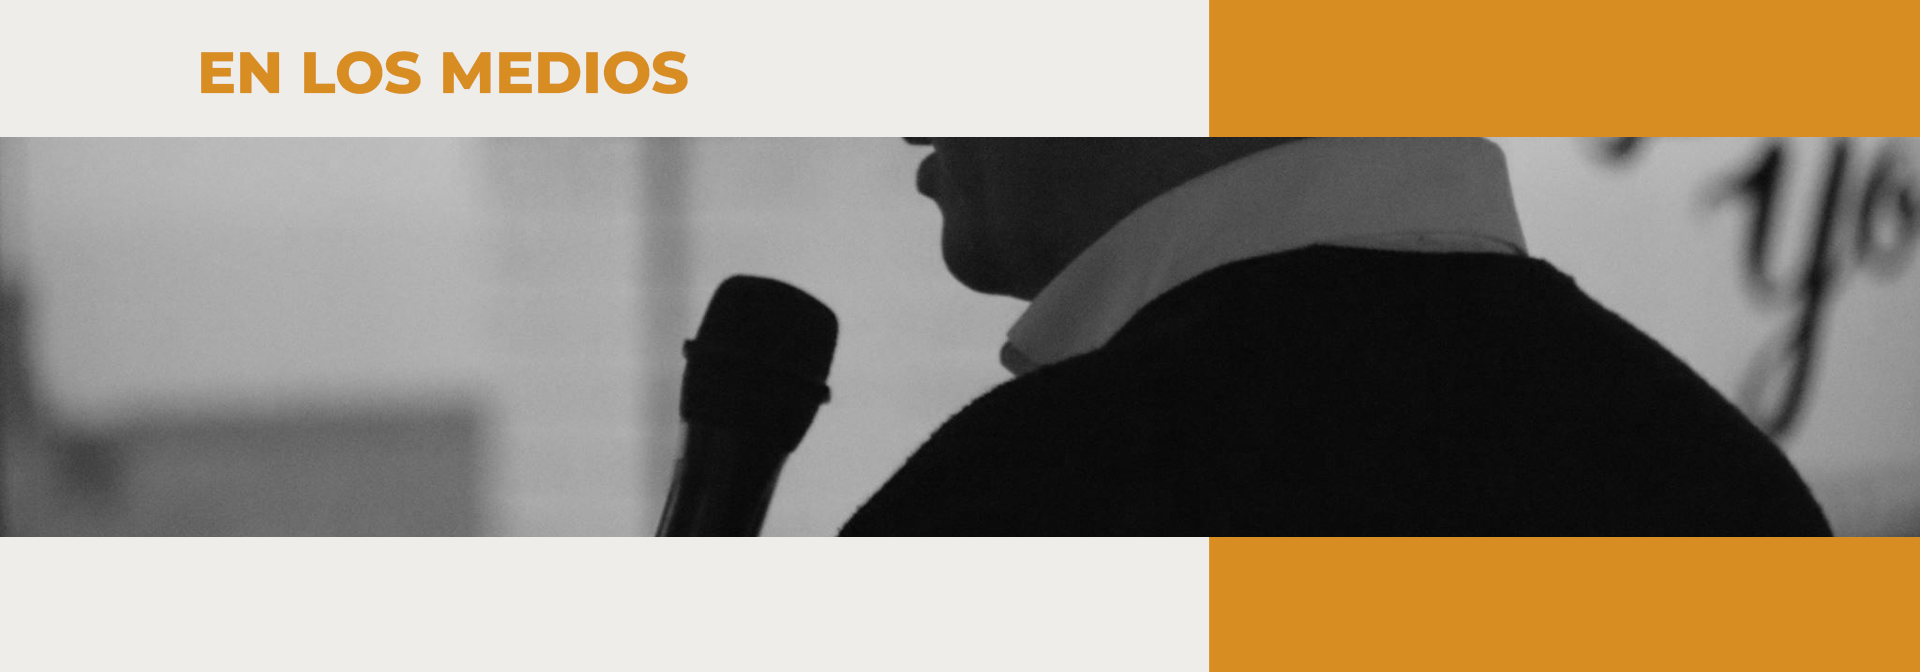
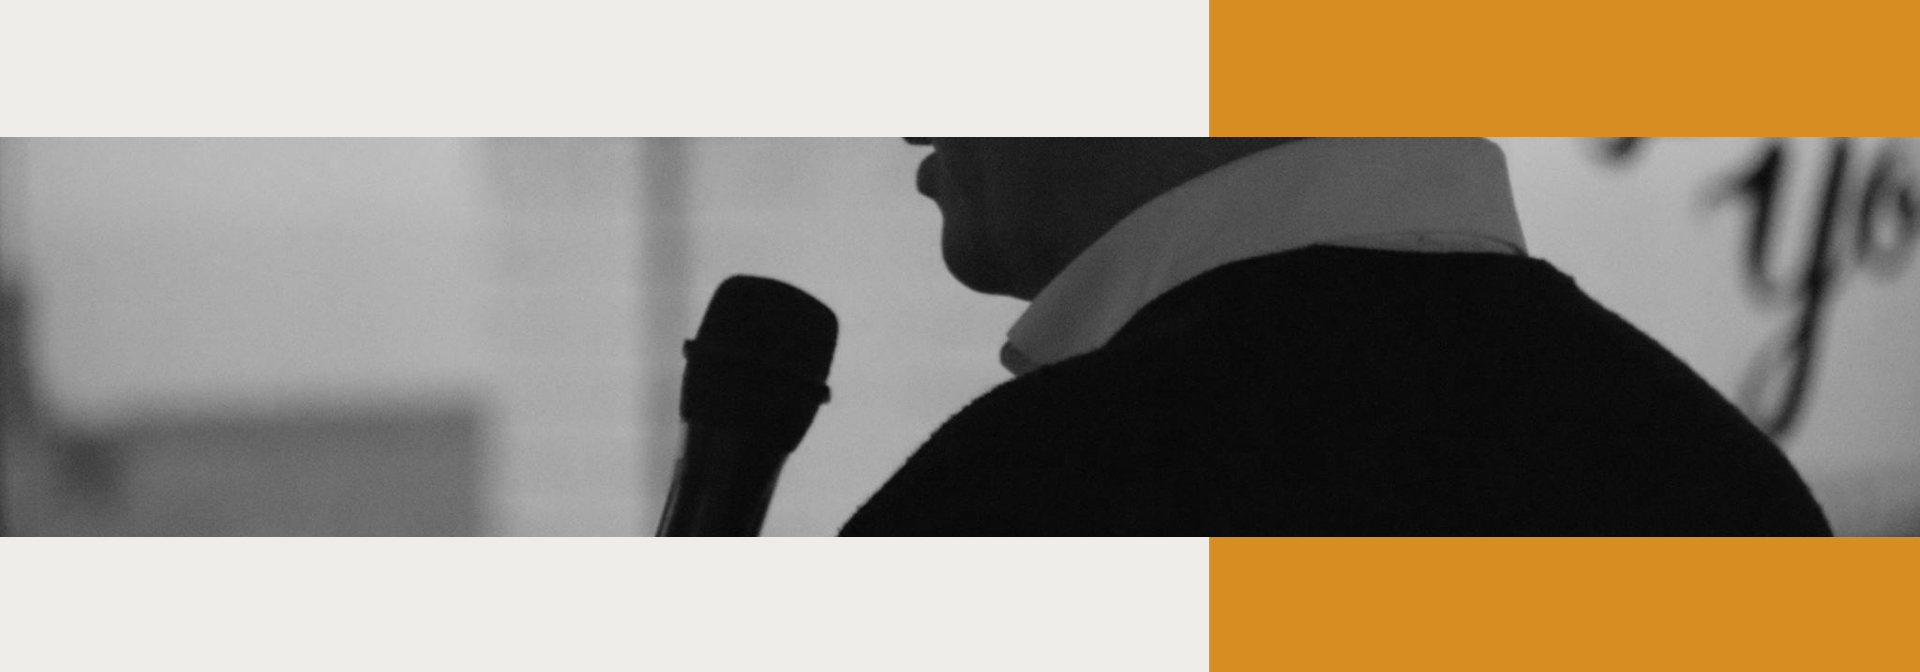
agregué nuevas imagenes en pagina en los medios y reorganizo la misma en otra rama que mas adelante traeré a main

Changed region(s): [[0.0938, 0.0625, 0.375, 0.1562]]

diff --git a/pages/en-los-medios.html b/pages/en-los-medios.html
@@ -14,89 +14,105 @@
     <link rel="preconnect" href="https://fonts.googleapis.com">
     <link rel="preconnect" href="https://fonts.gstatic.com" crossorigin>
     <link href="https://fonts.googleapis.com/css2?family=Montserrat:ital,wght@0,100..900;1,100..900&display=swap" rel="stylesheet">
+    <link rel="preconnect" href="https://fonts.googleapis.com">
+    <link rel="preconnect" href="https://fonts.gstatic.com" crossorigin>
+    <link href="https://fonts.googleapis.com/css2?family=MonteCarlo&display=swap" rel="stylesheet">
     <link href="https://cdn.jsdelivr.net/npm/bootstrap@5.3.8/dist/css/bootstrap.min.css" rel="stylesheet" 
     integrity="sha384-sRIl4kxILFvY47J16cr9ZwB07vP4J8+LH7qKQnuqkuIAvNWLzeN8tE5YBujZqJLB" crossorigin="anonymous">
-    <link rel="stylesheet" href="../css/style.css">
+    <link rel="stylesheet" href="">
+    <script src="https://kit.fontawesome.com/0647e7d9bc.js" crossorigin="anonymous"></script>
 </head>
 
 
 <body>
   <header>
-    <!-- encabezado -->
-    <img src="../assets/firma_marcelo.png" alt="Firma de Marcelo Barroso Griffiths">
-
     <nav>
-      <ul>
+        <div>
+            <h1>Marcelo Barroso Griffiths</h1>
+        </div>
+    </nav>
+
+    <ul>
         <li><a href="../index.html">Inicio</a></li>
         <li><a href="./tu-quiropractico.html">Tu Quiropráctico</a></li>
         <li><a href="#">En los medios</a></li>
         <li><a href="./por-que-me-eligen.html">¿Por qué me eligen?</a></li>
         <li><a href="./contacto.html">Contacto</a></li>
-      </ul>
-    </nav>
+    </ul>
   </header>
 
   <main>
     <!-- contenido principal -->
-     <section>
-        <img src="../assets/Banner en los medios.jpg" alt="Banner En los medios">
+     <section id="Inicio" class="banner">
+        <div class="banner-content">
+            <h2>EN LOS MEDIOS</h2>
+            <p>Conocé mis apariciones en radio, TV y prensa, donde comparto mi visión sobre la quiropraxia y la salud.</p>
+        </div>
      </section>
 
-     <section>
+     <section id="notas" class="notas-section">
         <h2>Notas destacadas</h2>
-        <article>
-            <h3>Estómago emocional: la quiropraxia como alivio para “la panza”</h3>
-            <p>“Lo que pensamos repercute en todo nuestro organismo. Cuando los malestares aparecen, la quiropraxia ofrece un camino más allá de los medicamentos.”</p>
-            <h5>DIARIO “EL DÍA”</h5>
-            <a href="https://www.eldia.com/nota/2021-6-13-8-20-25-estomago-emocional-la-quiropraxia-como-alivio-para-la-panza--toda-la-semana">
-                <img src="" alt="Botón Leer nota">
-            </a>
-        </article>
+        <div class="notas-grid">
+            <div class="notas-item">
+                <img src="../assets/dolor-panza.jpg" alt="Dolor de panza">
+                <h3>Estómago emocional: la quiropraxia como alivio para “la panza”</h3>
+                <p>“Lo que pensamos repercute en todo nuestro organismo. Cuando los malestares aparecen, la quiropraxia ofrece un camino más allá de los medicamentos.”-Diario "El Día"</p>
+                <a href="https://www.eldia.com/nota/2021-6-13-8-20-25-estomago-emocional-la-quiropraxia-como-alivio-para-la-panza--toda-la-semana">
+                    <span class="btn-primary">Leer nota</span>
+                </a>
+            </div>
 
-        <article>
-            <h3>Ideal para runners: un estudio de la pisada puede prevenir problemas de espalda y de rodilla</h3>
-            <p>“Conocer el tipo de pisada es clave para prevenir dolores en espalda, rodillas, talones y pies en quienes practican running o caminata.”</p>
-            <h5>REVISTA “PARATI”</h5>
-            <a href="https://www.parati.com.ar/fit/ideal-para-runners-un-estudio-de-la-pisada-puede-prevenir-problemas-de-espalda-y-de-rodilla/?fbclid=IwY2xjawMkgI1leHRuA2FlbQIxMABicmlkETFJUG1Yd2pXczJGY0xuVG5RAR7zJm8lJUiyAYpCCS5A5Igd8BWMQW6t2E74b-kv71GcEDBj6j-WKMUqGxAGiA_aem_hlJgZ2_aQR7PnyoXkgVabw">
-                <img src="" alt="Botón Leer nota">
-            </a>
-        </article>
-        
-        <article>
-            <h3>Hábitos que dañan la espalda</h3>
-            <p>“Los vicios posturales y movimientos inadecuados afectan la columna; reconocerlos ayuda a prevenir dolores y molestias.”</p>
-            <h5>REVISTA “MIA”</h5>
-            <a href="https://mia.perfil.com/noticias/salud/habitos-que-danan-la-espalda.phtml?fbclid=IwY2xjawMkgO9leHRuA2FlbQIxMABicmlkETFJUG1Yd2pXczJGY0xuVG5RAR4g6h6s9aTqvut3LCBTwx2pBnnHLvP0fObqvT0Qb7e2Xk1GXFZIS9yEd-OeIw_aem_DQ_y9og47B-WqBIzkMYc7A">
-                <img src="" alt="Botón Leer nota">
-            </a>
-        </article>
-        
-        <article>
-            <h3>Hernia de disco: tratamiento del dolor</h3>
-            <p>“La hernia de disco afecta los cartílagos entre las vértebras; la quiropraxia ofrece una alternativa para aliviar el dolor.”</p>
-            <h5>REVISTA “MIA”</h5>
-            <a href="https://mia.perfil.com/noticias/salud/hernia-de-disco-tratamiento-del-dolor.phtml?fbclid=IwY2xjawMkgQVleHRuA2FlbQIxMABicmlkETFJUG1Yd2pXczJGY0xuVG5RAR7fUoSzRS4GPlWDZeK5l7y8OPk-nbFPTcI9B0XFv3w1ziUgquhu0JyqoSaH8Q_aem_QpUQQ0k27Oscq6kso1tJ3g">
-                <img src="" alt="Botón Leer nota">
-            </a>
-        </article>
-        
-        <article>
-            <h3>Escoliosis: maneras de detectarla</h3>
-            <p>“La escoliosis es una desviación lateral de la columna que puede afectar la salud integral; la quiropraxia ofrece una alternativa de tratamiento.”</p>
-            <h5>REVISTA “MIA”</h5>
-            <a href="https://mia.perfil.com/noticias/salud/escoliosis-maneras-de-detectarla.phtml?fbclid=IwY2xjawMkgTFleHRuA2FlbQIxMQABHtLTY9s_hSS9ywzdpZfY1bWVh9w4arnLtg9BC6Mzxd9H6JzSeg-xsdPEpLdd_aem_srdGp-EnID_B3uSHXCZF8Q">
-                <img src="" alt="Botón Leer nota">
-            </a>
-        </article>
-        
-        <article>
-            <h3>Contracturados ¿por el frío?</h3>
-            <p> “El frío favorece contracturas musculares y rigidez articular; la quiropraxia ayuda a tratarlas al corregir subluxaciones de la columna.”</p>
-            <h5>DIARIO “LA PRENSA”</h5>
-            <a href="https://www.laprensa.com.ar/491612-Contracturados-por-el-frio.note.aspx?fbclid=IwY2xjawMkgYZleHRuA2FlbQIxMABicmlkETFJUG1Yd2pXczJGY0xuVG5RAR7zJm8lJUiyAYpCCS5A5Igd8BWMQW6t2E74b-kv71GcEDBj6j-WKMUqGxAGiA_aem_hlJgZ2_aQR7PnyoXkgVabw">
-                <img src="" alt="Botón Leer nota">
-            </a>
-        </article>        
+            <div class="notas-item">
+                <img src="../assets/runner.jpg" alt="Runner">
+                <h3>Ideal para runners: un estudio de la pisada puede prevenir problemas de espalda y de rodilla</h3>
+                <p>“Conocer el tipo de pisada es clave para prevenir dolores en espalda, rodillas, talones y pies en quienes practican running o caminata.”-Revista "Parati"</p>
+                <a href="https://www.parati.com.ar/fit/ideal-para-runners-un-estudio-de-la-pisada-puede-prevenir-problemas-de-espalda-y-de-rodilla/?fbclid=IwY2xjawMkgI1leHRuA2FlbQIxMABicmlkETFJUG1Yd2pXczJGY0xuVG5RAR7zJm8lJUiyAYpCCS5A5Igd8BWMQW6t2E74b-kv71GcEDBj6j-WKMUqGxAGiA_aem_hlJgZ2_aQR7PnyoXkgVabw">
+                    <span class="btn-primary">Leer nota</span>
+                </a>
+            </div>
+
+            <div class="notas-item">
+                <img src="../assets/mala-postura.jpg" alt="Mala postura con la computadora">
+                <h3>Hábitos que dañan la espalda</h3>
+                <p>“Los vicios posturales y movimientos inadecuados afectan la columna; reconocerlos ayuda a prevenir dolores y molestias.”-Revista "Mia"</p>
+                <a href="https://mia.perfil.com/noticias/salud/habitos-que-danan-la-espalda.phtml?fbclid=IwY2xjawMkgO9leHRuA2FlbQIxMABicmlkETFJUG1Yd2pXczJGY0xuVG5RAR4g6h6s9aTqvut3LCBTwx2pBnnHLvP0fObqvT0Qb7e2Xk1GXFZIS9yEd-OeIw_aem_DQ_y9og47B-WqBIzkMYc7A">
+                    <span class="btn-primary">Leer nota</span>
+                </a>
+            </div>
+
+            <div class="notas-item">
+                <img src="../assets/hernia-disco.jpg" alt="Hernia de disco">
+                <h3>Hernia de disco: tratamiento del dolor</h3>
+                <p>“La hernia de disco afecta los cartílagos entre las vértebras; la quiropraxia ofrece una alternativa para aliviar el dolor.”-Revista "Mia"</p>
+                <a href="https://mia.perfil.com/noticias/salud/hernia-de-disco-tratamiento-del-dolor.phtml?fbclid=IwY2xjawMkgQVleHRuA2FlbQIxMABicmlkETFJUG1Yd2pXczJGY0xuVG5RAR7fUoSzRS4GPlWDZeK5l7y8OPk-nbFPTcI9B0XFv3w1ziUgquhu0JyqoSaH8Q_aem_QpUQQ0k27Oscq6kso1tJ3g">
+                    <span class="btn-primary">Leer nota</span>
+                </a>
+            </div>
+
+            <div class="notas-item">
+                <img src="../assets/escoliosis.jpg" alt="Escoliosis">
+                <h3>Escoliosis: maneras de detectarla</h3>
+                <p>“La escoliosis es una desviación lateral de la columna que puede afectar la salud integral; la quiropraxia ofrece una alternativa de tratamiento.”-Revista "Mia"</p>
+                <a href="https://mia.perfil.com/noticias/salud/escoliosis-maneras-de-detectarla.phtml?fbclid=IwY2xjawMkgTFleHRuA2FlbQIxMQABHtLTY9s_hSS9ywzdpZfY1bWVh9w4arnLtg9BC6Mzxd9H6JzSeg-xsdPEpLdd_aem_srdGp-EnID_B3uSHXCZF8Q">
+                    <span class="btn-primary">Leer nota</span>
+                </a>
+            </div>
+
+            <div class="notas-item">
+                <img src="../assets/contractura.jpg" alt="Contractura en el cuello">
+                <h3>Contracturados ¿por el frío?</h3>
+                <p>“El frío favorece contracturas musculares y rigidez articular; la quiropraxia ayuda a tratarlas al corregir subluxaciones de la columna.”-Diario "La Prensa"</p>
+                <a href="https://www.laprensa.com.ar/491612-Contracturados-por-el-frio.note.aspx?fbclid=IwY2xjawMkgYZleHRuA2FlbQIxMABicmlkETFJUG1Yd2pXczJGY0xuVG5RAR7zJm8lJUiyAYpCCS5A5Igd8BWMQW6t2E74b-kv71GcEDBj6j-WKMUqGxAGiA_aem_hlJgZ2_aQR7PnyoXkgVabw">
+                    <span class="btn-primary">Leer nota</span>
+                </a>
+            </div>
+
+            
+
+
+
+        </div>
+
      </section>
 
      <section>
